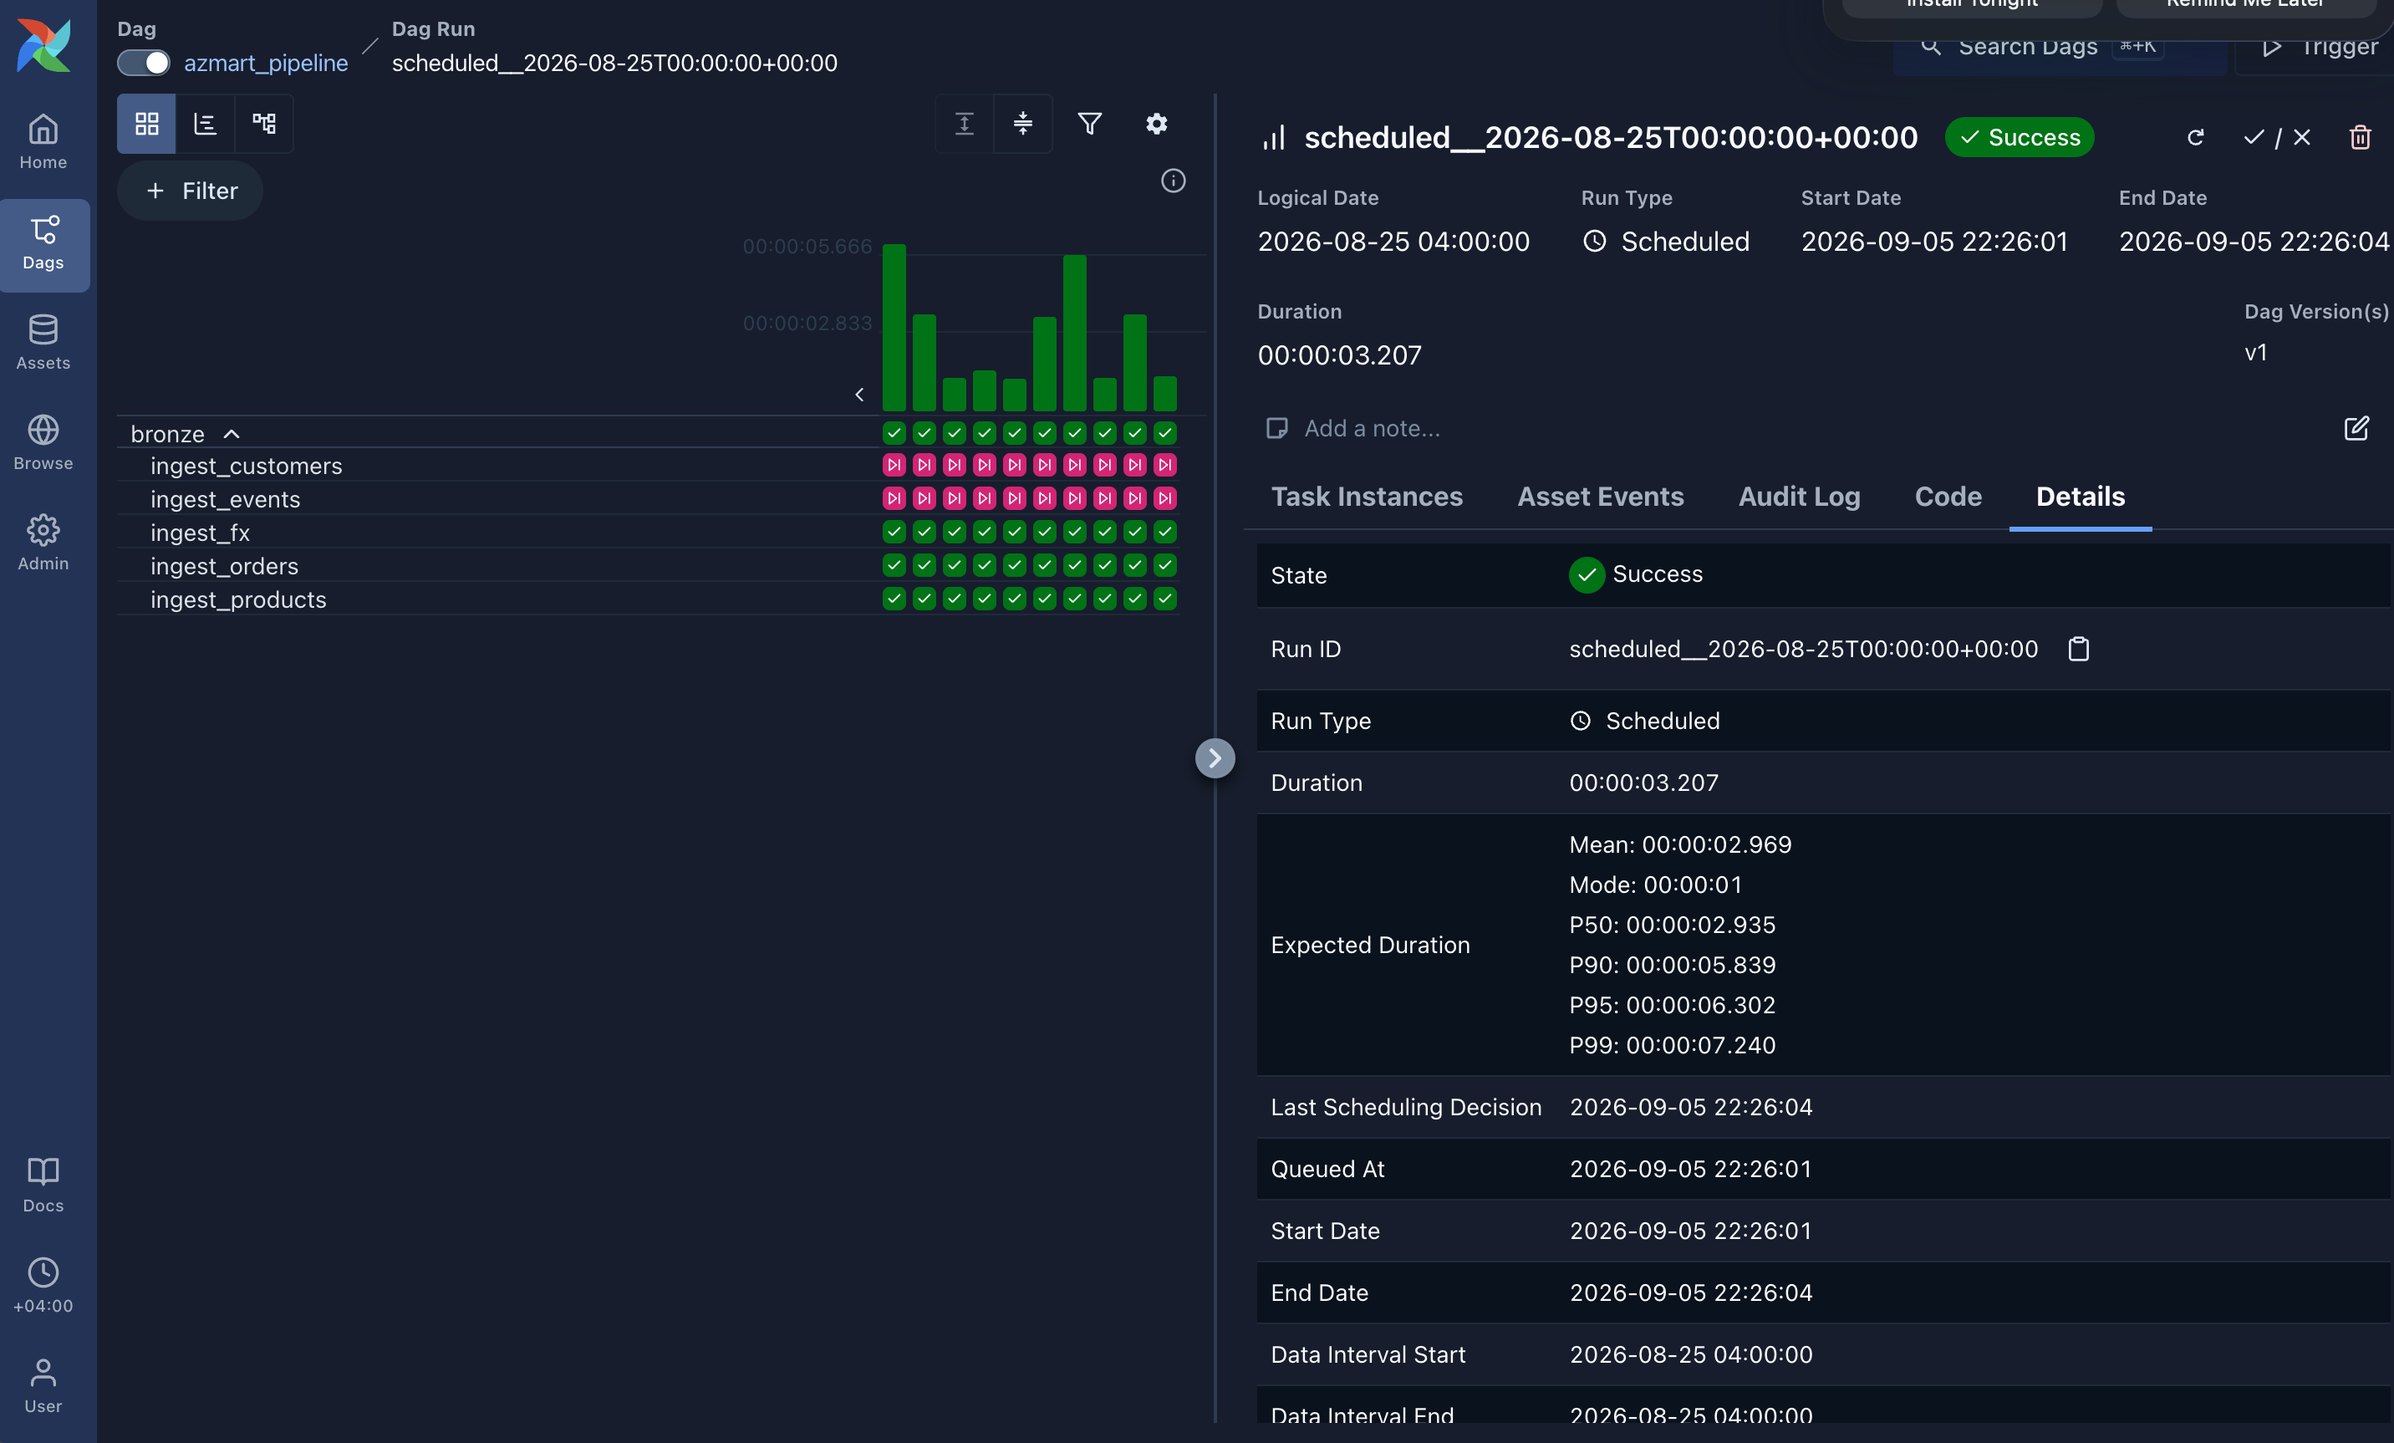
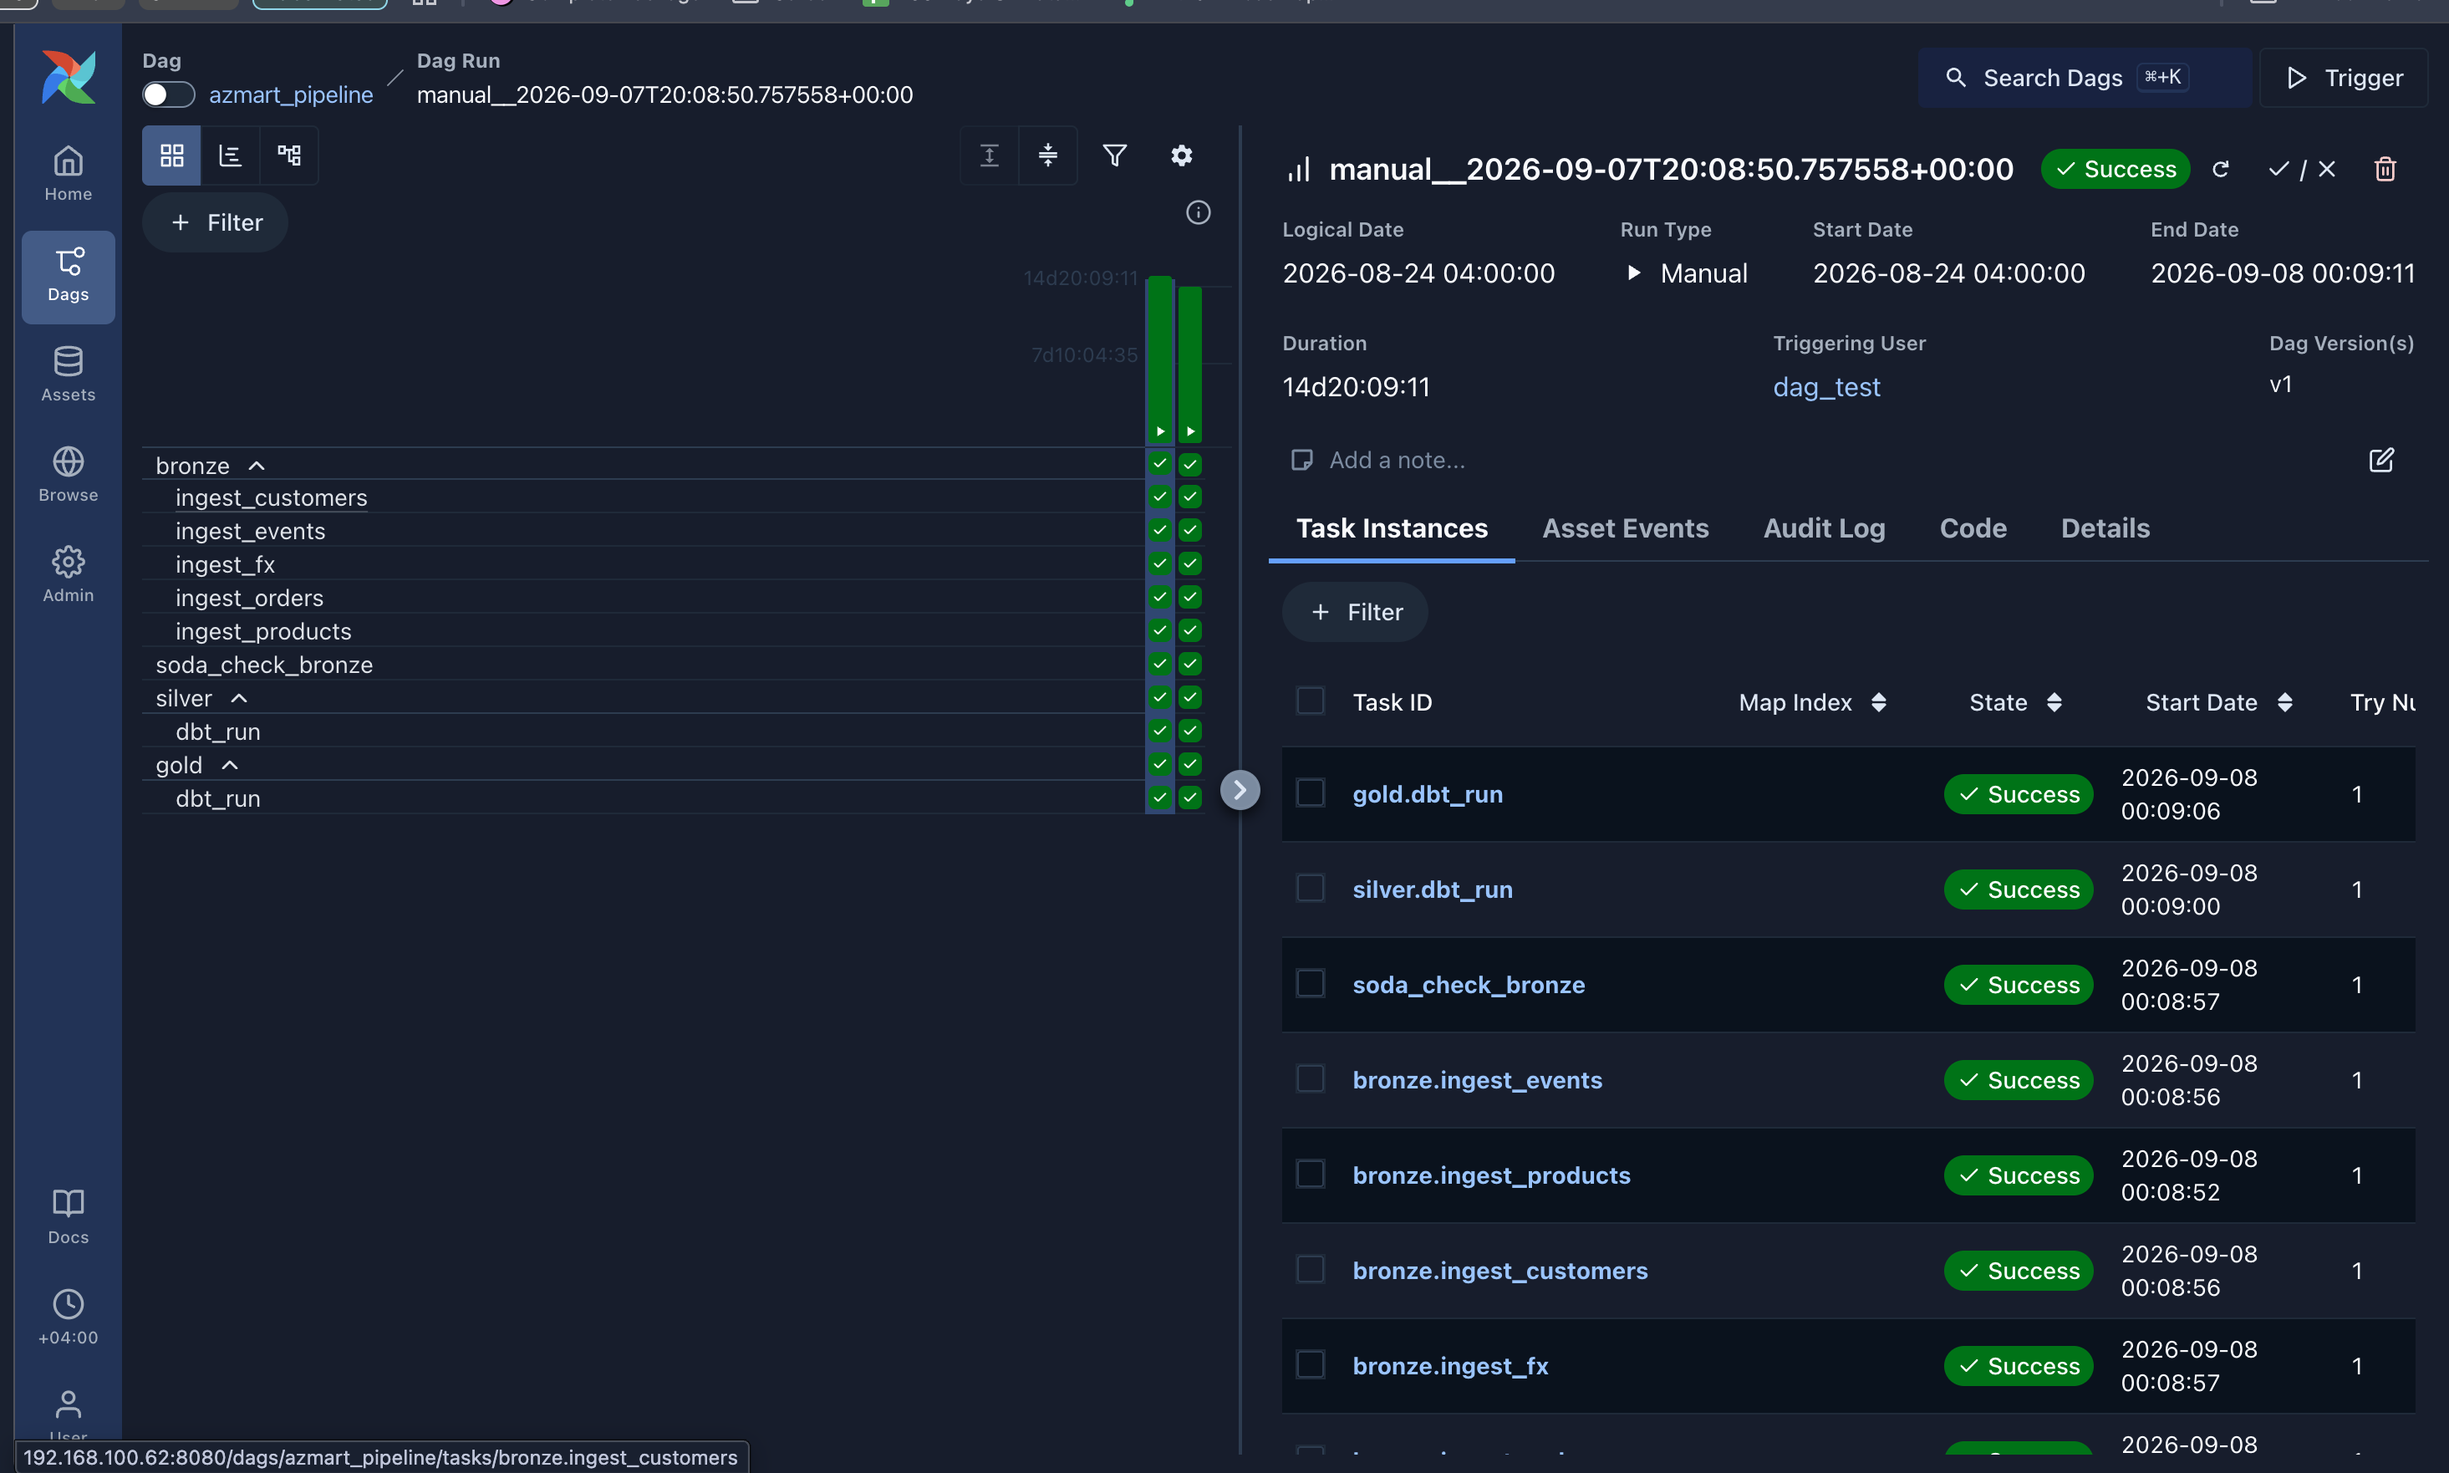
Update documentation: add Kubernetes migration plan and Airflow image separation rationale
- Added Airflow image separation details to `ARCHITECTURE.md` to streamline CI/CD pipeline.
- Included plan to migrate stack to k3s for large-scale testing.
- Enhanced README with evidence of pipeline success, including logs and DAG run history.

diff --git a/ARCHITECTURE.md b/ARCHITECTURE.md
@@ -63,3 +63,5 @@
 - dbt modellərini `incremental`-a keçirmək (hazırda hamısı full-refresh table, Hissə 5-dəki miqyasda davam etməz)
 - OpenMetadata/OpenLineage ilə lineage və catalog (Bonus B4)
 - Hər sütuna description (hazırda yalnız açar sütunlarda var)
+- **Airflow-u ayrıca image kimi qurmaq:** hazırda DAG dəyişəndə də CI/CD tam image-i (dbt+soda+asılılıqlar) yenidən build edir. Airflow-u öz image-inə çıxarıb, DAG fayllarını (git-sync və ya bind-mount ilə) ayrıca push etsəydim, adi DAG dəyişikliyi üçün heç bir rebuild lazım olmazdı — deploy daha sürətli olardı.
+- **K3s üzərində qaldırmaq:** daha böyük həcmli sintetik data ilə (Hissə 5-dəki miqyas ssenarisi) real şəraitdə test etmək üçün bütün stack-i yüngül Kubernetes (k3s) üzərinə köçürərdim.

diff --git a/README.md b/README.md
@@ -34,6 +34,18 @@ Analitika sorğularını (`analytics/queries/`) real dataya qarşı yenidən iş
 make analytics
 ```
 
+## Sübut (evidence)
+
+`docker compose ps` — 6 servis healthy:
+
+![docker compose ps](evidence/docker-compose-ps.png)
+
+Airflow DAG-ın uğurlu run tarixçəsi:
+
+![Airflow DAG history](evidence/airflow-dag-history.png)
+
+Ətraflı log-lar: `evidence/ingestion/` (429/500 retry-lar), `evidence/airflow/` (`dags test` çıxışı), `evidence/dbt/`, `evidence/soda/`.
+
 ## Arxitektura xülasəsi
 
 - **Warehouse:** PostgreSQL 16 (bir instans, iki database: `airflow_meta`, `azmart`). DuckDB yox — Hissə 4-də paralel bronze task-lar üçün MVCC lazımdır.
